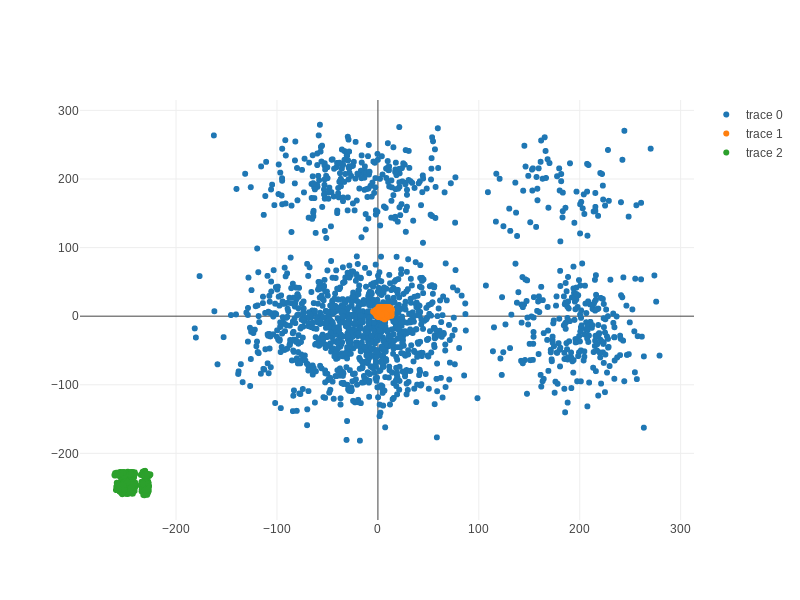
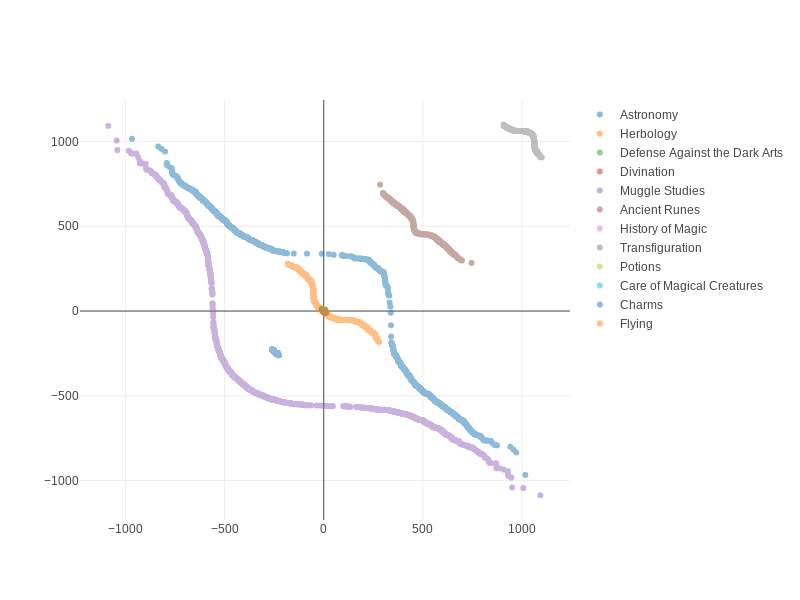
small adjustments to scatter function

diff --git a/src/data_visualization/src/plot.rs b/src/data_visualization/src/plot.rs
@@ -15,8 +15,12 @@ use plotly::common::{ErrorData, ErrorType, Orientation};
 use plotly::histogram::{Bins, Cumulative, HistFunc, HistNorm};
 use plotly::layout::{BoxMode, Margin};
 use plotly::{Bar, BoxPlot, Histogram};
+use polars::error::PolarsError;
+use polars::frame::DataFrame;
 use rand;
 use rand_distr::{Distribution, Normal, Uniform};
+
+use std::{error::Error, process};
 
 // Histograms
 fn sample_normal_distribution(n: usize, mean: f64, std_dev: f64) -> Vec<f64> {
@@ -38,20 +42,45 @@ fn sample_uniform_distribution(n: usize, lb: f64, ub: f64) -> Vec<f64> {
 	v
 }
 
-pub fn simple_scatter_plot(flying: Vec<f64>, potions: Vec<f64>, charms: Vec<f64>) {
+fn make_trace(plot: &mut Plot, name: &str, data: DataFrame) -> Result<(), Box<dyn Error>> {
+	let mut col: Vec<f64> = data
+		.column(name)
+		.unwrap()
+		.f64()?
+		.into_iter()
+		.filter(|x| x.is_some())
+		.map(|x| x.unwrap())
+		.collect();
+
+	let min = 0.0;
+	let max = col.len() as f64;
+	let n = (max - min) as usize;
+	col.sort_by(|a, b| a.partial_cmp(b).unwrap());
+	let t: Vec<f64> = col.iter().copied().rev().collect();
+	//let t = sample_uniform_distribution(n, min, max);
+	let y = col;
+
+	let trace = Scatter::new(t, y)
+		.opacity(0.5)
+		.name(name)
+		.mode(Mode::Markers);
+	plot.add_trace(trace);
+
+	Ok(())
+}
+
+pub fn simple_scatter_plot(data: DataFrame) -> Result<(), Box<dyn Error>> {
 	let mut plot = Plot::new();
 
-	for col in vec![flying, potions, charms] {
-		let min = 0.0;
-		let max = col.len() as f64;
-		let n = (max - min) as usize;
-		let t: Vec<f64> = col.iter().copied().rev().collect();
-		let y = col;
-
-		let trace = Scatter::new(t, y).mode(Mode::Markers);
-		plot.add_trace(trace);
+	for name in data.get_column_names() {
+		if name != "Arithmancy" {
+			make_trace(&mut plot, name, data.clone());
+		}
 	}
+
 	plot.write_image("data_scatter.png", ImageFormat::PNG, 800, 600, 1.0);
+
+	Ok(())
 }
 
 pub fn histogram_2_1(houses: Vec<Vec<f64>>, house_names: Vec<String>) {

diff --git a/src/data_visualization/src/main.rs b/src/data_visualization/src/main.rs
@@ -24,32 +24,7 @@ fn main() -> Result<(), Box<dyn Error>> {
 			.collect()?
 	);
 
-	let flying: Vec<f64> = data
-		.column("Flying")
-		.unwrap()
-		.f64()?
-		.into_iter()
-		.filter(|x| x.is_some())
-		.map(|x| x.unwrap())
-		.collect();
-	let potions: Vec<f64> = data
-		.column("Potions")
-		.unwrap()
-		.f64()?
-		.into_iter()
-		.filter(|x| x.is_some())
-		.map(|x| x.unwrap())
-		.collect();
-	let charms: Vec<f64> = data
-		.column("Charms")
-		.unwrap()
-		.f64()?
-		.into_iter()
-		.filter(|x| x.is_some())
-		.map(|x| x.unwrap())
-		.collect();
-
-	plot::simple_scatter_plot(flying, potions, charms);
+	plot::simple_scatter_plot(data)?;
 
 	plot::normalized_histogram();
 	plot::test_scatter_plot();
